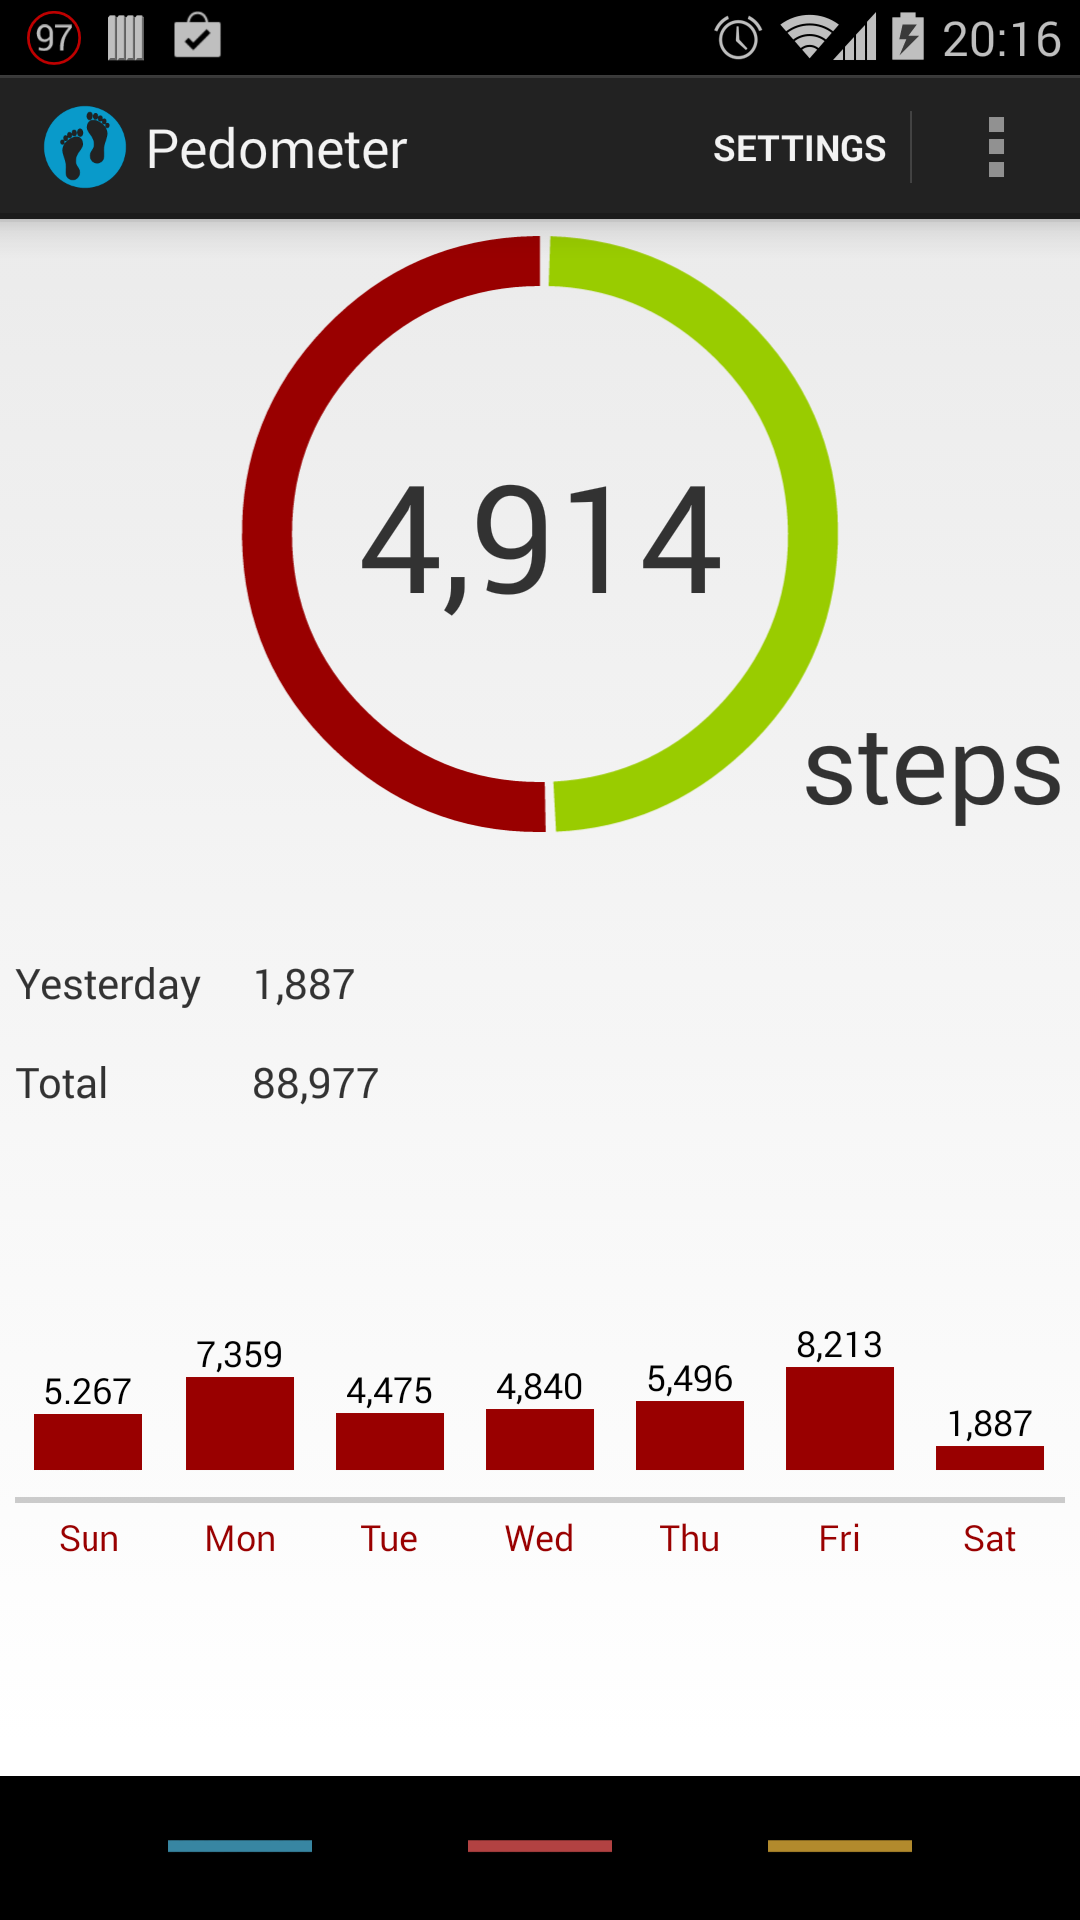
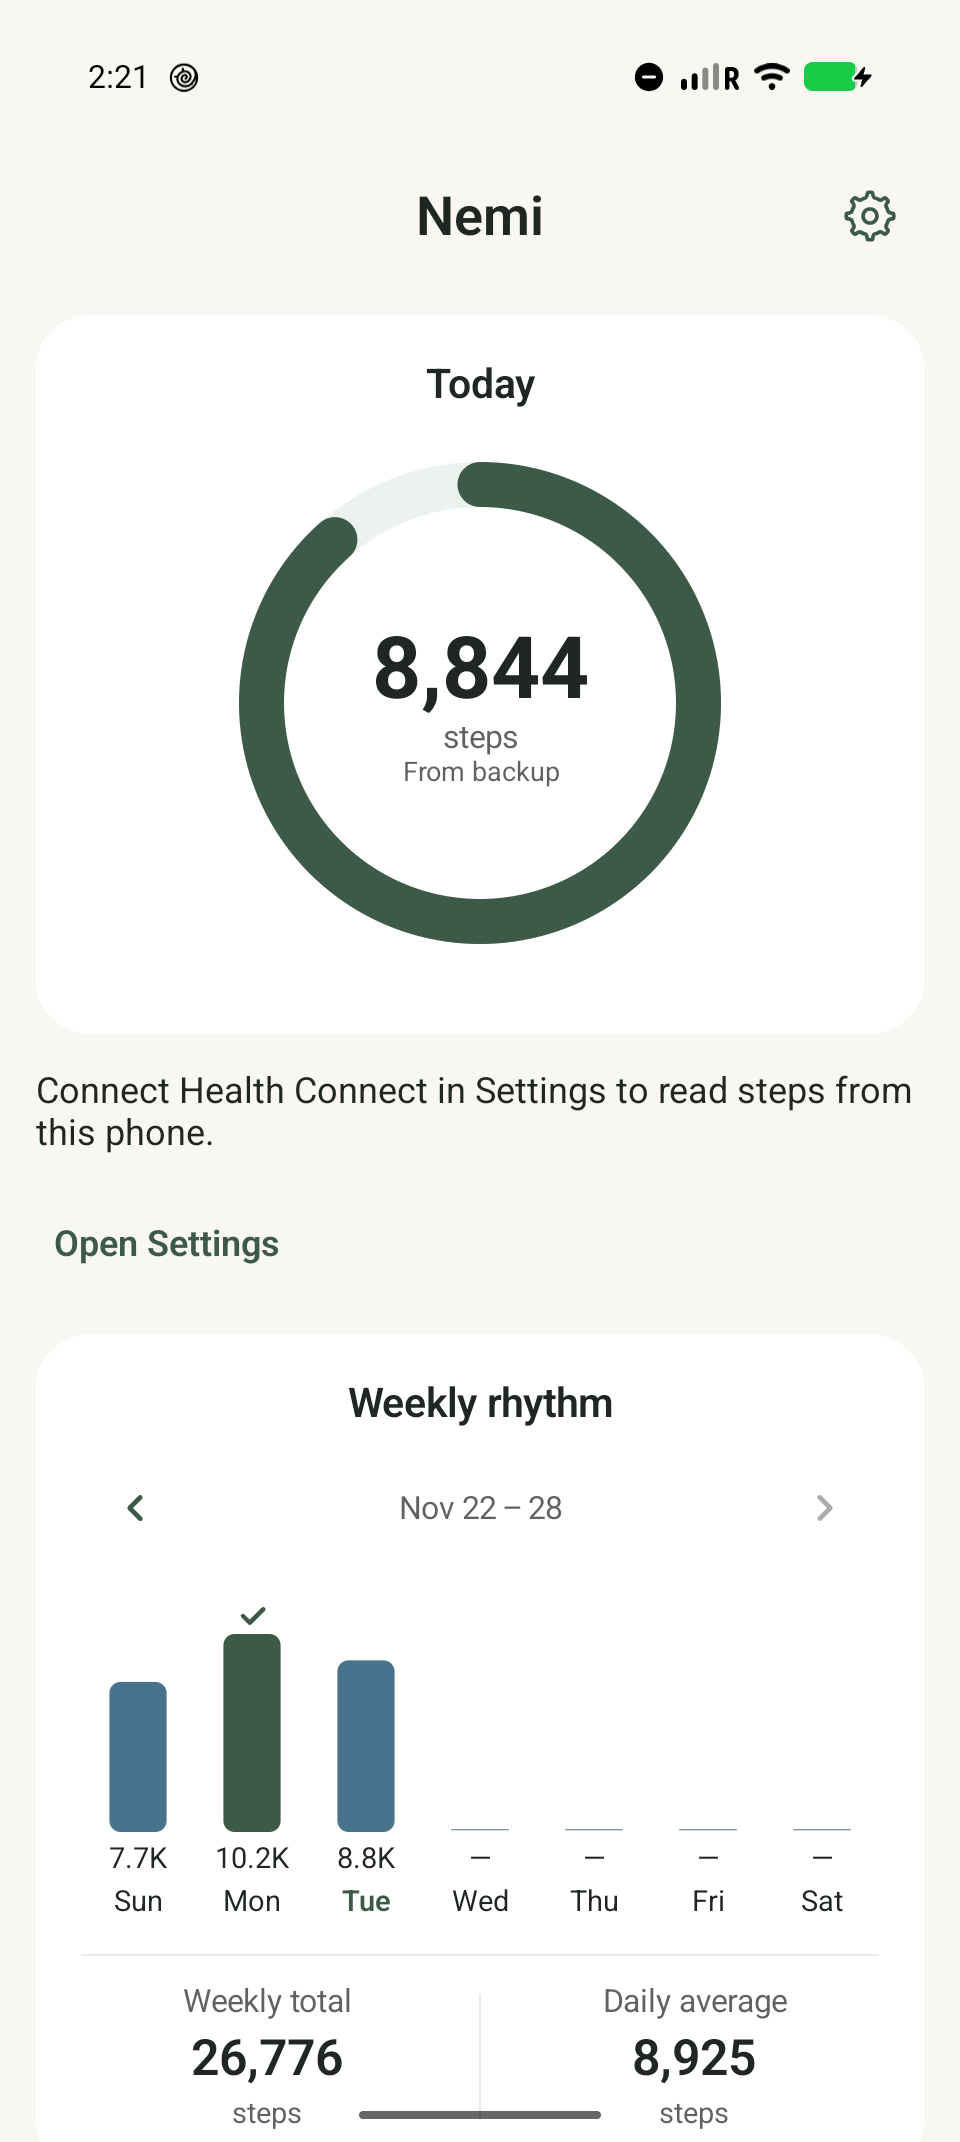
Prepare repository and store metadata for Nemi

diff --git a/README.md b/README.md
@@ -1,10 +1,12 @@
-Pedometer
-=========
+# Nemi
 
-Pedometer is an Android app for tracking steps from your phone through Health
-Connect. Home shows today's steps and goal progress, this week's daily totals,
-your best day, and lifetime steps. Open Settings to edit the daily goal or
-import and export a CSV backup.
+Nemi is an Android app for tracking steps from your phone through Health
+Connect. Home shows today’s steps and goal progress, weekly totals, your best
+day, and lifetime steps. In Settings, you can change your daily goal and import
+or export a CSV backup. Export filenames include the date by default.
+
+Android installs Nemi separately from Pedometer. To bring over your step
+history, export a CSV backup in Pedometer and import it in Nemi.
 
 ## Build
 
@@ -14,4 +16,7 @@ deployment instructions.
 
 ## Acknowledgements
 
-This project was forked from https://github.com/j4velin/Pedometer. I asked GitHub support to detach this from the parent repo, because my intention is to continue making changes and publish it to the Play Store.
+Nemi began as a fork of [Pedometer](https://github.com/j4velin/Pedometer),
+originally created by Thomas Hoffmann.
+
+[Source code on GitHub](https://github.com/sjaramillo10/Nemi)

diff --git a/AGENTS.md b/AGENTS.md
@@ -1,13 +1,13 @@
-# Pedometer
+# Nemi
 
 - This is a single Android module, `:app`, with application ID and namespace
-  `dev.sjaramillo.pedometer`. The min, compile, and target SDK are all 37; CI
+  `dev.sjaramillo.nemi`. The min, compile, and target SDK are all 37; CI
   uses JDK 25.
 - Use the Kotlin DSL and dependency/plugin versions in
   `gradle/libs.versions.toml`. The app uses AndroidX, Hilt/KSP, Room, Health
   Connect, and a single Compose Foundation screen.
 - Keep `MainActivity` as the Compose host. Wire Android lifecycle events,
-  activity results, and privacy intents in `PedometerRoute`. Have
+  activity results, and privacy intents in `NemiRoute`. Have
   `HomeViewModel` expose one `HomeUiState`, and pass state and callbacks to
   `HomeScreen`.
 - Add deterministic unit tests under `app/src/test` for behavior changes.
@@ -57,7 +57,7 @@ Run from the repository root:
 ```sh
 ./gradlew build
 ./gradlew ktlintCheck
-./gradlew :app:testDebugUnitTest --tests 'dev.sjaramillo.pedometer.data.StepsCsvTest'
+./gradlew :app:testDebugUnitTest --tests 'dev.sjaramillo.nemi.data.StepsCsvTest'
 ```
 
 Ktlint exceptions are defined in `.editorconfig` for annotated constructors,
